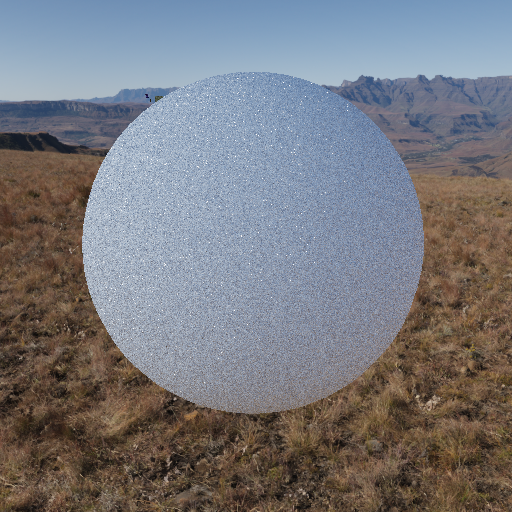
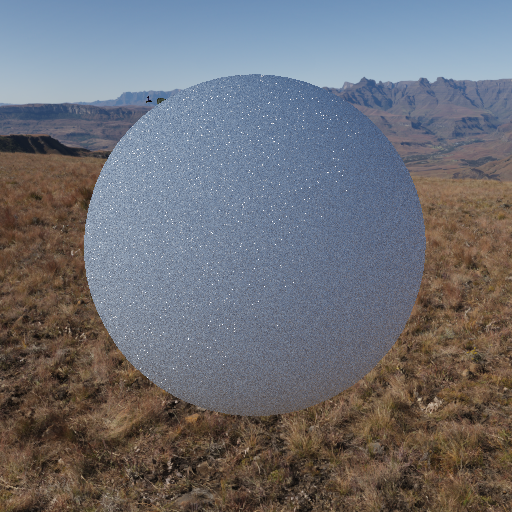
Importance sampling
Fix uniform weight

diff --git a/wwwroot/vistracing-in-one-weekend/index.md.html b/wwwroot/vistracing-in-one-weekend/index.md.html
@@ -2071,7 +2071,7 @@ local rtMat = CreateMaterial("VisTracer", "UnlitGeneric", {
 
 
 ~~~ lua highlight
-local function SampleHemisphereUniform(r1, r2)
+local function SampleHemisphere(r1, r2)
 	local sinTheta = math.sqrt(1 - r1 * r1)
 	local phi = 2 * math.pi * r2
 
@@ -2100,9 +2100,9 @@ z_{\text{world}} &= N z_{\text{local}}
 \end{align}
 
 ~~~ lua delete
-local function SampleHemisphereUniform(r1, r2)
+local function SampleHemisphere(r1, r2)
 ~~~ lua highlight
-local function SampleHemisphereUniform(result, r1, r2)
+local function SampleHemisphere(result, r1, r2)
 ~~~ lua
 	local sinTheta = math.sqrt(1 - r1 * r1)
 	local phi = 2 * math.pi * r2
@@ -2130,7 +2130,7 @@ Then we can add a call to this function in `TracePixel`, as well as some demo co
 
 			for depth = 1, MAX_DEPTH do
 				~~~ lua highlight
-				local sample = SampleHemisphereUniform(result, sampler:GetFloat2D())
+				local sample = SampleHemisphere(result, sampler:GetFloat2D())
 				~~~ lua
 
 				local origin = vistrace.CalcRayOrigin(result:Pos(), result:GeometricNormal())
@@ -2157,14 +2157,14 @@ Now we can add in evaluation of the integral. This is the exact same equation th
 We will once again use the Lambert BRDF $\frac{\text{albedo}}{\pi}$, and the $PDF$ of our uniform sampling function is simply $1$ divided by the surface area of a unit hemisphere, $2 \pi$
 
 \begin{equation}
-\frac{\frac{\text{albedo}}{\pi}(\omega_i \cdot \mathbf{n})}{\frac{1}{2 \pi}} = \frac{\text{albedo}}{\pi}(\omega_i \cdot \mathbf{n}) * 2 \pi = \pi \text{albedo} (\omega_i \cdot \mathbf{n})
+\frac{\frac{\text{albedo}}{\pi}(\omega_i \cdot \mathbf{n})}{\frac{1}{2 \pi}} = \frac{\text{albedo}}{\pi}(\omega_i \cdot \mathbf{n}) * 2 \pi = 2 \text{albedo} (\omega_i \cdot \mathbf{n})
 \end{equation}
 
 ~~~ lua
 			for depth = 1, MAX_DEPTH do
-				local sample = SampleHemisphereUniform(result, sampler:GetFloat2D())
+				local sample = SampleHemisphere(result, sampler:GetFloat2D())
 				~~~ lua highlight
-				throughput = throughput * math.pi * result:Albedo() * sample:Dot(result:Normal())
+				throughput = throughput * 2 * result:Albedo() * sample:Dot(result:Normal())
 				~~~ lua
 
 				local origin = vistrace.CalcRayOrigin(result:Pos(), result:GeometricNormal())
@@ -2181,8 +2181,95 @@ Note that unlike when directly sampling the HDRI, we don't need to `math.max` th
 
 ![Naive path tracing](images/uniform-path-tracing.png)
 
+Well that was surprisingly easy, other than the more in depth theory, but it doesn't stop there...
+
 Importance Sampling
 -------------------
+
+At the moment we're uniformly selecting a point on the hemisphere, however if we look at our evaluation, the throughput is higher when the dot product between the sampled vector and surface normal is higher.
+
+Importance sampling is taking this inherent difference in the importance of samples and choosing them accordingly. In simple terms, we want to choose rays that are closer to the normal more often than rays on the equator.
+
+This sampling strategy is called cosine weighted hemisphere sampling and is very easy to implement, requiring only a minor adjustment to the sampling function and evaluation
+
+\begin{align}
+z &= \sqrt{\xi_1} \\
+\phi &= 2 \pi \xi_2 \\
+x &= \sqrt{1 - z^{2}} \cos\phi \\
+y &= \sqrt{1 - z^{2}} \sin\phi \\
+PDF(z) &= \frac{z}{\pi} \\
+\frac{\frac{\text{albedo}}{\pi}(\omega_i \cdot \mathbf{n})}{\frac{\omega_i \cdot \mathbf{n}}{\pi}} &= \frac{\text{albedo}}{\pi}(\omega_i \cdot \mathbf{n}) * \frac{\pi}{\omega_i \cdot \mathbf{n}} = \text{albedo}
+\end{align}
+
+The derivation for the PDF and the square root in $z$ are outside of the scope of this book, but you can find them [here](https://alexanderameye.github.io/notes/sampling-the-hemisphere).
+
+In addition to implementing the above, we're also going to calculate the PDF and weight of the sample in our sample function, as we already know the dot product term
+
+~~~ lua
+local function SampleHemisphere(result, r1, r2)
+	~~~ lua delete
+	local sinTheta = math.sqrt(1 - r1 * r1)
+	~~~ lua highlight
+	local z = math.sqrt(r1)
+	local sinTheta = math.sqrt(1 - r1)
+	~~~ lua
+	local phi = 2 * math.pi * r2
+
+	
+	~~~ lua delete
+	return (
+		sinTheta * math.cos(phi) * result:Tangent() +
+		sinTheta * math.sin(phi) * result:Binormal() +
+		r1                       * result:Normal()
+	)
+	~~~ lua highlight
+	return {
+		scattered = (
+			sinTheta * math.cos(phi) * result:Tangent() +
+			sinTheta * math.sin(phi) * result:Binormal() +
+			z                        * result:Normal()
+		),
+		weight    = result:Albedo(),
+		pdf       = z / math.pi
+	}
+	~~~ lua
+end
+~~~
+
+And then in `TracePixel`
+
+~~~ lua
+			...
+
+			for depth = 1, MAX_DEPTH do
+				local sample = SampleHemisphere(result, sampler:GetFloat2D())
+				~~~ lua delete
+				throughput = throughput * 2 * result:Albedo() * sample:Dot(result:Normal())
+				~~~ lua highlight
+				throughput = throughput * sample.weight
+				~~~ lua
+
+				local origin = vistrace.CalcRayOrigin(result:Pos(), result:GeometricNormal())
+
+				~~~ lua delete
+				result = accel:Traverse(origin, sample)
+				~~~ lua highlight
+				result = accel:Traverse(origin, sample.scattered)
+				~~~ lua
+				if not result then
+					~~~ lua delete
+					colour = colour + hdri:GetPixel(sample) * throughput
+					~~~ lua highlight
+					colour = colour + hdri:GetPixel(sample.scattered) * throughput
+					~~~ lua
+					break
+				end
+			end
+~~~
+
+![From top left to bottom right: 1spp uniform, 1spp importance, 512spp uniform, 512spp importance](images/importance-sampling.png)
+
+They both converge to the same solution as they're both unbiased, however importance sampling converges faster.
 
 Next Event Estimation
 ---------------------
